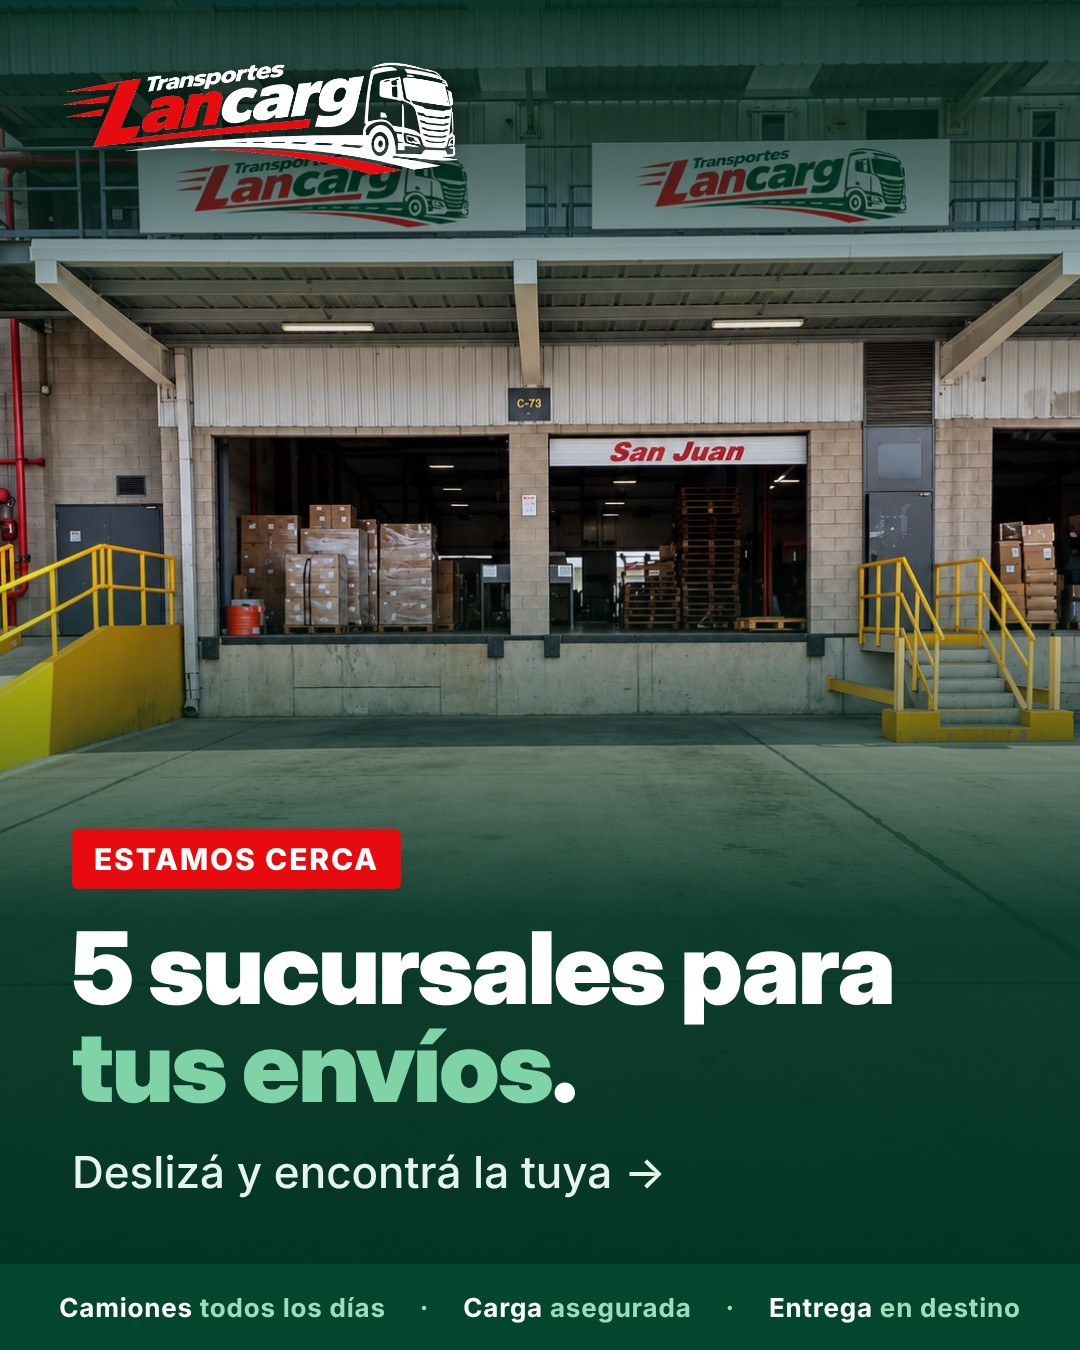
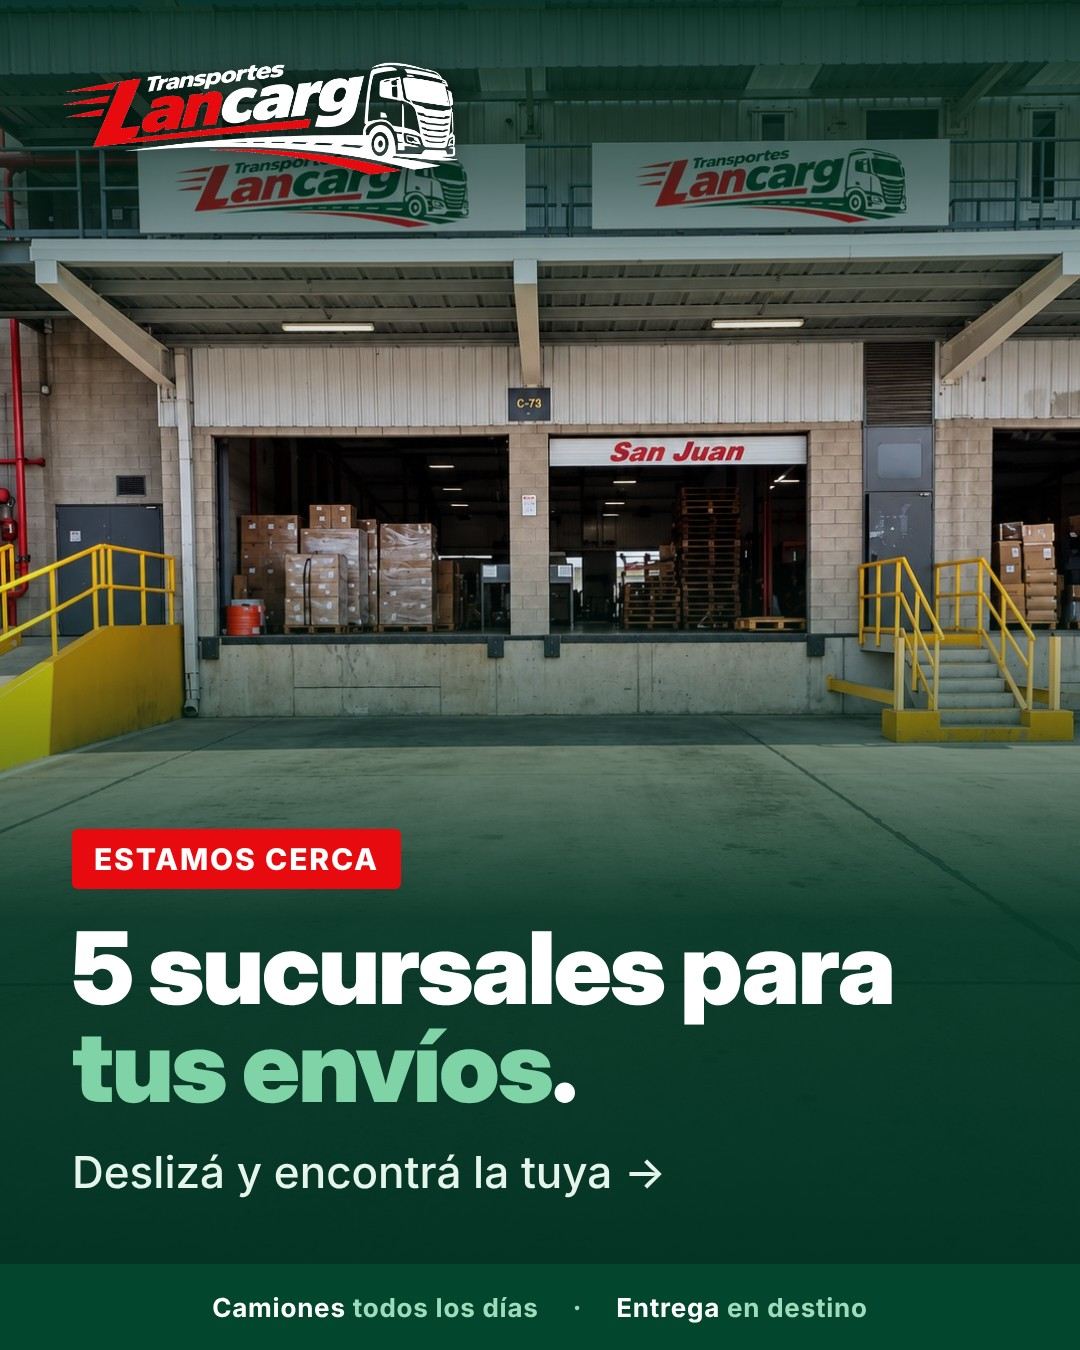
Carrusel 26/10: sin 'carga asegurada'
Claude-Session: https://claude.ai/code/session_014Mzmm57TWdtJRgNHLty5PC

Changed region(s): [[0.0611, 0.9644, 0.9472, 0.9956]]

diff --git a/publicaciones/2026-10-26-carrusel-sucursales/diseno.html b/publicaciones/2026-10-26-carrusel-sucursales/diseno.html
@@ -34,4 +34,4 @@ h2{font-family:"Inter Display",Inter;font-weight:900;font-size:76px;line-height:
 .card .p{font-size:36px;font-weight:700;margin-top:10px;display:flex;align-items:center;gap:12px}
 .mr{display:flex;gap:30px;align-items:flex-start}
 .mito{font-size:44px;font-weight:800;color:#ffb3b5}
-</style></head><body><div class="slide feed"><img class="bg" src="../../fotos/frente-deposito-bsas-en-el-ctc-de-villa-soldati.jpg" style="object-position:50% 50%"><div class="shade "></div><img class="logo" src="../../marca/logo-lancarg-sobre-verde.png"><div class="txt " style="bottom:150px"><div class="kicker">Estamos cerca</div><h1>5 sucursales para <em>tus envíos</em>.</h1><div class="sub">Deslizá y encontrá la tuya →</div></div><div class="bar"><span><b>Camiones</b> todos los días</span><span>·</span><span><b>Carga</b> asegurada</span><span>·</span><span><b>Entrega</b> en destino</span></div></div><div class="slide feed" style="background:var(--g)"><img class="logo" src="../../marca/logo-lancarg-sobre-verde.png"><div class="txt top" style="top:190px"><h2 style="font-size:84px">Nuestras sucursales</h2><div class="card" style="padding:28px 34px;margin-top:20px"><div class="mr"><div style="flex:1"><div class="t" style="font-size:44px">San Juan</div><div class="d" style="font-size:32px">Ruta 40 545 Norte, Chimbas</div></div><div class="p" style="font-size:38px;margin-top:6px"><svg width="40" height="40" viewBox="0 0 24 24" fill="#25D366"><path d="M12 2a10 10 0 0 0-8.6 15.1L2 22l5-1.3A10 10 0 1 0 12 2zm5.3 14.1c-.2.6-1.3 1.2-1.8 1.2-.5.1-1 .2-3.3-.7-2.8-1.1-4.5-4-4.7-4.2-.1-.2-1.1-1.5-1.1-2.9s.7-2 1-2.3c.2-.3.5-.3.7-.3h.5c.2 0 .4 0 .6.5l.8 2c.1.2.1.4 0 .5l-.3.5-.4.4c-.1.1-.3.3-.1.6.2.3.8 1.3 1.7 2.1 1.2 1 2.1 1.4 2.4 1.5.3.1.5.1.6-.1l.9-1c.2-.3.4-.2.6-.1l1.9.9c.3.1.5.2.5.3.1.2.1.7-.1 1.4z"/></svg>264 454-3612</div></div></div><div class="card" style="padding:28px 34px;margin-top:20px"><div class="mr"><div style="flex:1"><div class="t" style="font-size:44px">Mendoza</div><div class="d" style="font-size:32px">Mitre 2671, Guaymallén</div></div><div class="p" style="font-size:38px;margin-top:6px"><svg width="40" height="40" viewBox="0 0 24 24" fill="#25D366"><path d="M12 2a10 10 0 0 0-8.6 15.1L2 22l5-1.3A10 10 0 1 0 12 2zm5.3 14.1c-.2.6-1.3 1.2-1.8 1.2-.5.1-1 .2-3.3-.7-2.8-1.1-4.5-4-4.7-4.2-.1-.2-1.1-1.5-1.1-2.9s.7-2 1-2.3c.2-.3.5-.3.7-.3h.5c.2 0 .4 0 .6.5l.8 2c.1.2.1.4 0 .5l-.3.5-.4.4c-.1.1-.3.3-.1.6.2.3.8 1.3 1.7 2.1 1.2 1 2.1 1.4 2.4 1.5.3.1.5.1.6-.1l.9-1c.2-.3.4-.2.6-.1l1.9.9c.3.1.5.2.5.3.1.2.1.7-.1 1.4z"/></svg>261 240-6204</div></div></div><div class="card" style="padding:28px 34px;margin-top:20px"><div class="mr"><div style="flex:1"><div class="t" style="font-size:44px">Buenos Aires</div><div class="d" style="font-size:32px">Pergamino 3751, C.T.C. Villa Soldati</div></div><div class="p" style="font-size:38px;margin-top:6px"><svg width="40" height="40" viewBox="0 0 24 24" fill="#25D366"><path d="M12 2a10 10 0 0 0-8.6 15.1L2 22l5-1.3A10 10 0 1 0 12 2zm5.3 14.1c-.2.6-1.3 1.2-1.8 1.2-.5.1-1 .2-3.3-.7-2.8-1.1-4.5-4-4.7-4.2-.1-.2-1.1-1.5-1.1-2.9s.7-2 1-2.3c.2-.3.5-.3.7-.3h.5c.2 0 .4 0 .6.5l.8 2c.1.2.1.4 0 .5l-.3.5-.4.4c-.1.1-.3.3-.1.6.2.3.8 1.3 1.7 2.1 1.2 1 2.1 1.4 2.4 1.5.3.1.5.1.6-.1l.9-1c.2-.3.4-.2.6-.1l1.9.9c.3.1.5.2.5.3.1.2.1.7-.1 1.4z"/></svg>11 3779-5919</div></div></div><div class="card" style="padding:28px 34px;margin-top:20px"><div class="mr"><div style="flex:1"><div class="t" style="font-size:44px">Córdoba</div><div class="d" style="font-size:32px">La Cordillera 3774</div></div><div class="p" style="font-size:38px;margin-top:6px"><svg width="40" height="40" viewBox="0 0 24 24" fill="#25D366"><path d="M12 2a10 10 0 0 0-8.6 15.1L2 22l5-1.3A10 10 0 1 0 12 2zm5.3 14.1c-.2.6-1.3 1.2-1.8 1.2-.5.1-1 .2-3.3-.7-2.8-1.1-4.5-4-4.7-4.2-.1-.2-1.1-1.5-1.1-2.9s.7-2 1-2.3c.2-.3.5-.3.7-.3h.5c.2 0 .4 0 .6.5l.8 2c.1.2.1.4 0 .5l-.3.5-.4.4c-.1.1-.3.3-.1.6.2.3.8 1.3 1.7 2.1 1.2 1 2.1 1.4 2.4 1.5.3.1.5.1.6-.1l.9-1c.2-.3.4-.2.6-.1l1.9.9c.3.1.5.2.5.3.1.2.1.7-.1 1.4z"/></svg>351 311-2698</div></div></div><div class="card" style="padding:28px 34px;margin-top:20px"><div class="mr"><div style="flex:1"><div class="t" style="font-size:44px">Rosario</div><div class="d" style="font-size:32px">Río de Janeiro 2510</div></div><div class="p" style="font-size:38px;margin-top:6px"><svg width="40" height="40" viewBox="0 0 24 24" fill="#25D366"><path d="M12 2a10 10 0 0 0-8.6 15.1L2 22l5-1.3A10 10 0 1 0 12 2zm5.3 14.1c-.2.6-1.3 1.2-1.8 1.2-.5.1-1 .2-3.3-.7-2.8-1.1-4.5-4-4.7-4.2-.1-.2-1.1-1.5-1.1-2.9s.7-2 1-2.3c.2-.3.5-.3.7-.3h.5c.2 0 .4 0 .6.5l.8 2c.1.2.1.4 0 .5l-.3.5-.4.4c-.1.1-.3.3-.1.6.2.3.8 1.3 1.7 2.1 1.2 1 2.1 1.4 2.4 1.5.3.1.5.1.6-.1l.9-1c.2-.3.4-.2.6-.1l1.9.9c.3.1.5.2.5.3.1.2.1.7-.1 1.4z"/></svg>341 364-0498</div></div></div></div></div></body></html>
+</style></head><body><div class="slide feed"><img class="bg" src="../../fotos/frente-deposito-bsas-en-el-ctc-de-villa-soldati.jpg" style="object-position:50% 50%"><div class="shade "></div><img class="logo" src="../../marca/logo-lancarg-sobre-verde.png"><div class="txt " style="bottom:150px"><div class="kicker">Estamos cerca</div><h1>5 sucursales para <em>tus envíos</em>.</h1><div class="sub">Deslizá y encontrá la tuya →</div></div><div class="bar"><span><b>Camiones</b> todos los días</span><span>·</span><span><b>Entrega</b> en destino</span></div></div><div class="slide feed" style="background:var(--g)"><img class="logo" src="../../marca/logo-lancarg-sobre-verde.png"><div class="txt top" style="top:190px"><h2 style="font-size:84px">Nuestras sucursales</h2><div class="card" style="padding:28px 34px;margin-top:20px"><div class="mr"><div style="flex:1"><div class="t" style="font-size:44px">San Juan</div><div class="d" style="font-size:32px">Ruta 40 545 Norte, Chimbas</div></div><div class="p" style="font-size:38px;margin-top:6px"><svg width="40" height="40" viewBox="0 0 24 24" fill="#25D366"><path d="M12 2a10 10 0 0 0-8.6 15.1L2 22l5-1.3A10 10 0 1 0 12 2zm5.3 14.1c-.2.6-1.3 1.2-1.8 1.2-.5.1-1 .2-3.3-.7-2.8-1.1-4.5-4-4.7-4.2-.1-.2-1.1-1.5-1.1-2.9s.7-2 1-2.3c.2-.3.5-.3.7-.3h.5c.2 0 .4 0 .6.5l.8 2c.1.2.1.4 0 .5l-.3.5-.4.4c-.1.1-.3.3-.1.6.2.3.8 1.3 1.7 2.1 1.2 1 2.1 1.4 2.4 1.5.3.1.5.1.6-.1l.9-1c.2-.3.4-.2.6-.1l1.9.9c.3.1.5.2.5.3.1.2.1.7-.1 1.4z"/></svg>264 454-3612</div></div></div><div class="card" style="padding:28px 34px;margin-top:20px"><div class="mr"><div style="flex:1"><div class="t" style="font-size:44px">Mendoza</div><div class="d" style="font-size:32px">Mitre 2671, Guaymallén</div></div><div class="p" style="font-size:38px;margin-top:6px"><svg width="40" height="40" viewBox="0 0 24 24" fill="#25D366"><path d="M12 2a10 10 0 0 0-8.6 15.1L2 22l5-1.3A10 10 0 1 0 12 2zm5.3 14.1c-.2.6-1.3 1.2-1.8 1.2-.5.1-1 .2-3.3-.7-2.8-1.1-4.5-4-4.7-4.2-.1-.2-1.1-1.5-1.1-2.9s.7-2 1-2.3c.2-.3.5-.3.7-.3h.5c.2 0 .4 0 .6.5l.8 2c.1.2.1.4 0 .5l-.3.5-.4.4c-.1.1-.3.3-.1.6.2.3.8 1.3 1.7 2.1 1.2 1 2.1 1.4 2.4 1.5.3.1.5.1.6-.1l.9-1c.2-.3.4-.2.6-.1l1.9.9c.3.1.5.2.5.3.1.2.1.7-.1 1.4z"/></svg>261 240-6204</div></div></div><div class="card" style="padding:28px 34px;margin-top:20px"><div class="mr"><div style="flex:1"><div class="t" style="font-size:44px">Buenos Aires</div><div class="d" style="font-size:32px">Pergamino 3751, C.T.C. Villa Soldati</div></div><div class="p" style="font-size:38px;margin-top:6px"><svg width="40" height="40" viewBox="0 0 24 24" fill="#25D366"><path d="M12 2a10 10 0 0 0-8.6 15.1L2 22l5-1.3A10 10 0 1 0 12 2zm5.3 14.1c-.2.6-1.3 1.2-1.8 1.2-.5.1-1 .2-3.3-.7-2.8-1.1-4.5-4-4.7-4.2-.1-.2-1.1-1.5-1.1-2.9s.7-2 1-2.3c.2-.3.5-.3.7-.3h.5c.2 0 .4 0 .6.5l.8 2c.1.2.1.4 0 .5l-.3.5-.4.4c-.1.1-.3.3-.1.6.2.3.8 1.3 1.7 2.1 1.2 1 2.1 1.4 2.4 1.5.3.1.5.1.6-.1l.9-1c.2-.3.4-.2.6-.1l1.9.9c.3.1.5.2.5.3.1.2.1.7-.1 1.4z"/></svg>11 3779-5919</div></div></div><div class="card" style="padding:28px 34px;margin-top:20px"><div class="mr"><div style="flex:1"><div class="t" style="font-size:44px">Córdoba</div><div class="d" style="font-size:32px">La Cordillera 3774</div></div><div class="p" style="font-size:38px;margin-top:6px"><svg width="40" height="40" viewBox="0 0 24 24" fill="#25D366"><path d="M12 2a10 10 0 0 0-8.6 15.1L2 22l5-1.3A10 10 0 1 0 12 2zm5.3 14.1c-.2.6-1.3 1.2-1.8 1.2-.5.1-1 .2-3.3-.7-2.8-1.1-4.5-4-4.7-4.2-.1-.2-1.1-1.5-1.1-2.9s.7-2 1-2.3c.2-.3.5-.3.7-.3h.5c.2 0 .4 0 .6.5l.8 2c.1.2.1.4 0 .5l-.3.5-.4.4c-.1.1-.3.3-.1.6.2.3.8 1.3 1.7 2.1 1.2 1 2.1 1.4 2.4 1.5.3.1.5.1.6-.1l.9-1c.2-.3.4-.2.6-.1l1.9.9c.3.1.5.2.5.3.1.2.1.7-.1 1.4z"/></svg>351 311-2698</div></div></div><div class="card" style="padding:28px 34px;margin-top:20px"><div class="mr"><div style="flex:1"><div class="t" style="font-size:44px">Rosario</div><div class="d" style="font-size:32px">Río de Janeiro 2510</div></div><div class="p" style="font-size:38px;margin-top:6px"><svg width="40" height="40" viewBox="0 0 24 24" fill="#25D366"><path d="M12 2a10 10 0 0 0-8.6 15.1L2 22l5-1.3A10 10 0 1 0 12 2zm5.3 14.1c-.2.6-1.3 1.2-1.8 1.2-.5.1-1 .2-3.3-.7-2.8-1.1-4.5-4-4.7-4.2-.1-.2-1.1-1.5-1.1-2.9s.7-2 1-2.3c.2-.3.5-.3.7-.3h.5c.2 0 .4 0 .6.5l.8 2c.1.2.1.4 0 .5l-.3.5-.4.4c-.1.1-.3.3-.1.6.2.3.8 1.3 1.7 2.1 1.2 1 2.1 1.4 2.4 1.5.3.1.5.1.6-.1l.9-1c.2-.3.4-.2.6-.1l1.9.9c.3.1.5.2.5.3.1.2.1.7-.1 1.4z"/></svg>341 364-0498</div></div></div></div></div></body></html>
